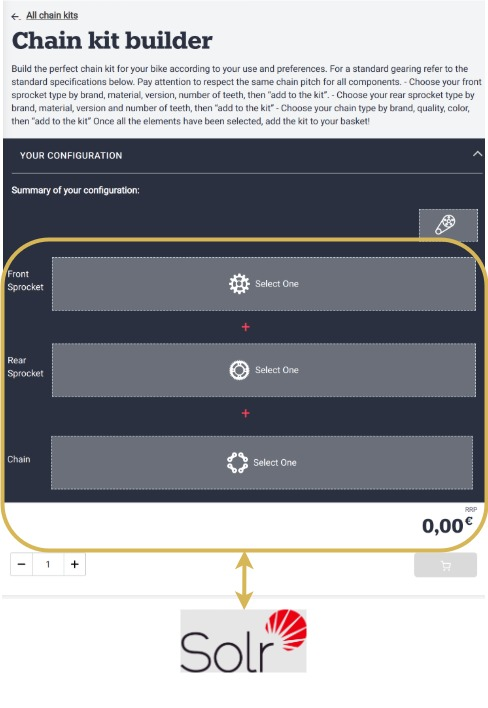
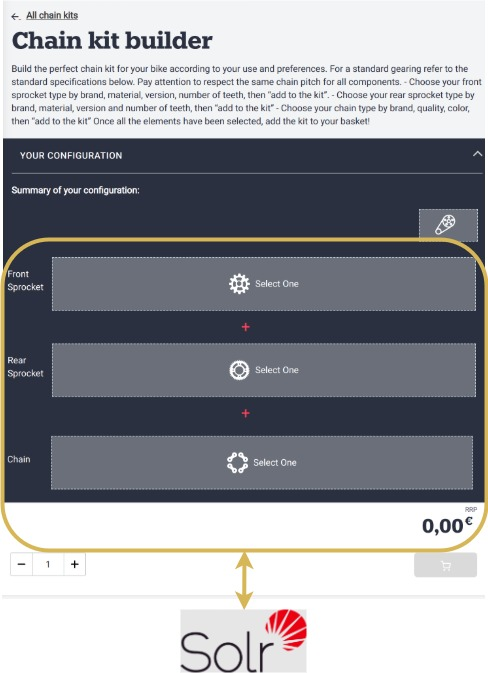
minor change

diff --git a/assets/css/main.css b/assets/css/main.css
@@ -4897,7 +4897,7 @@ input, select, textarea {
 				-moz-object-fit: cover;
 				-webkit-object-fit: cover;
 				-ms-object-fit: cover;
-				object-fit: cover;
+				object-fit: contain;
 				-moz-object-position: center;
 				-webkit-object-position: center;
 				-ms-object-position: center;
